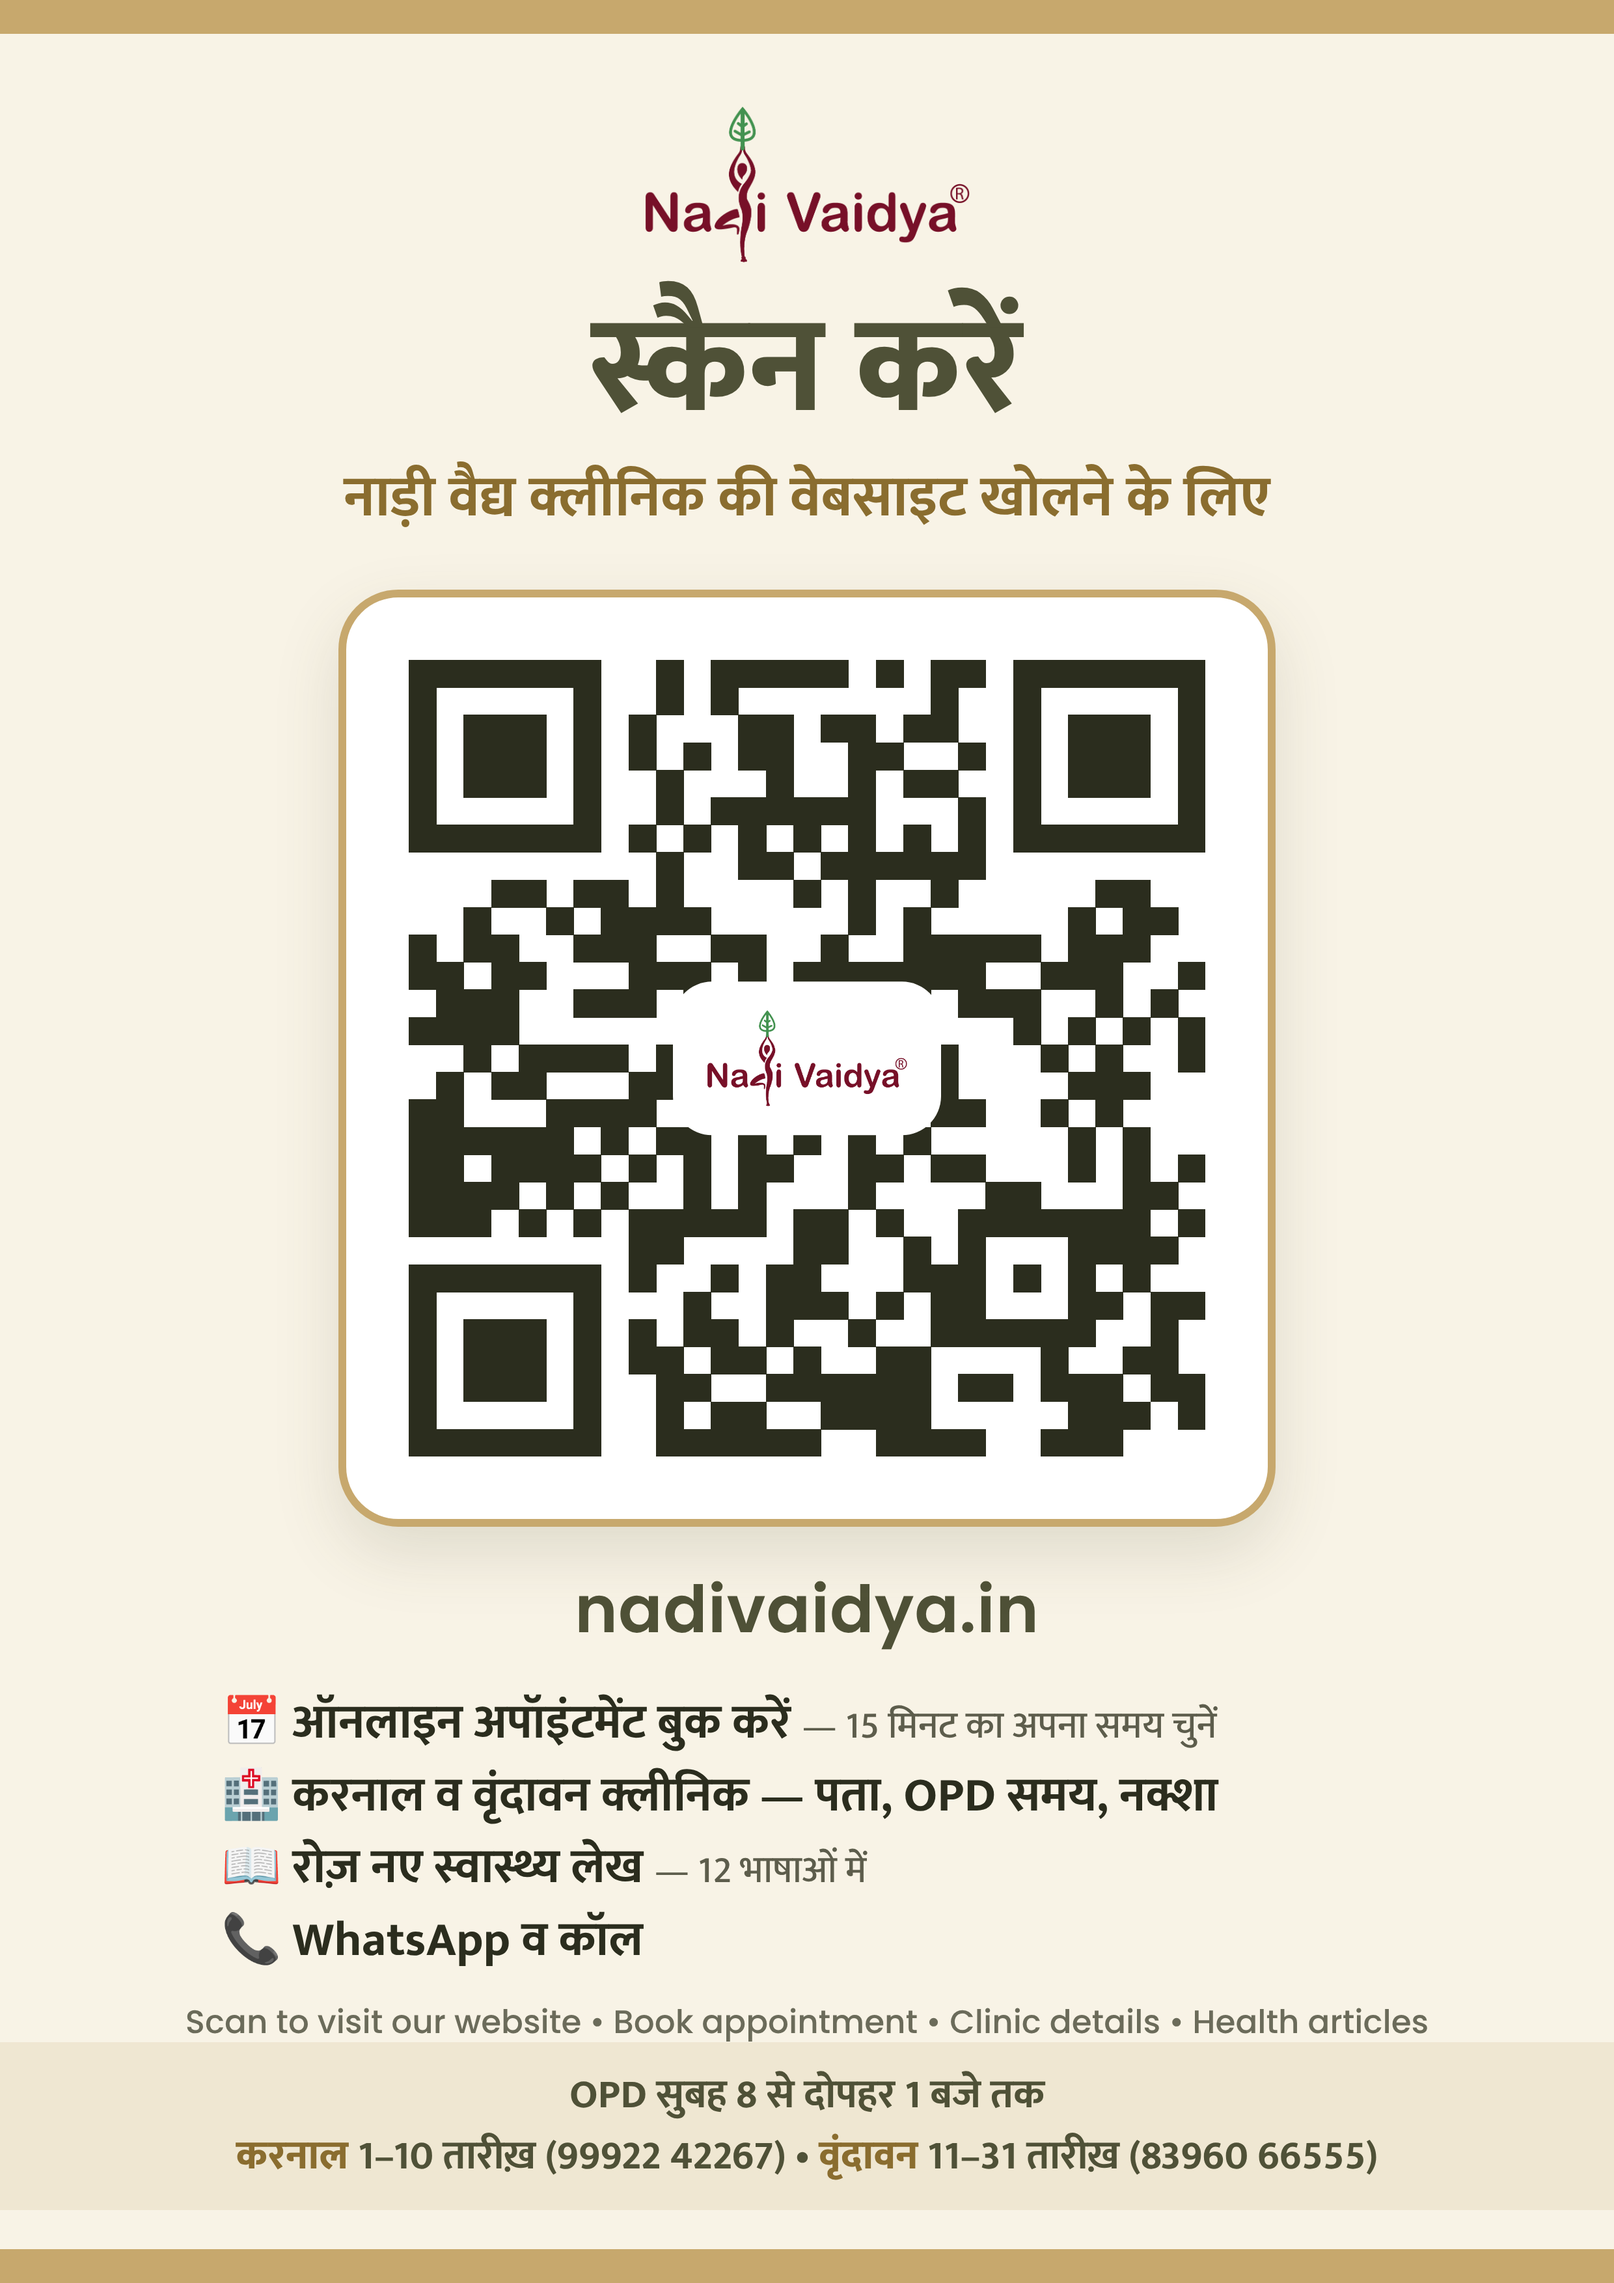
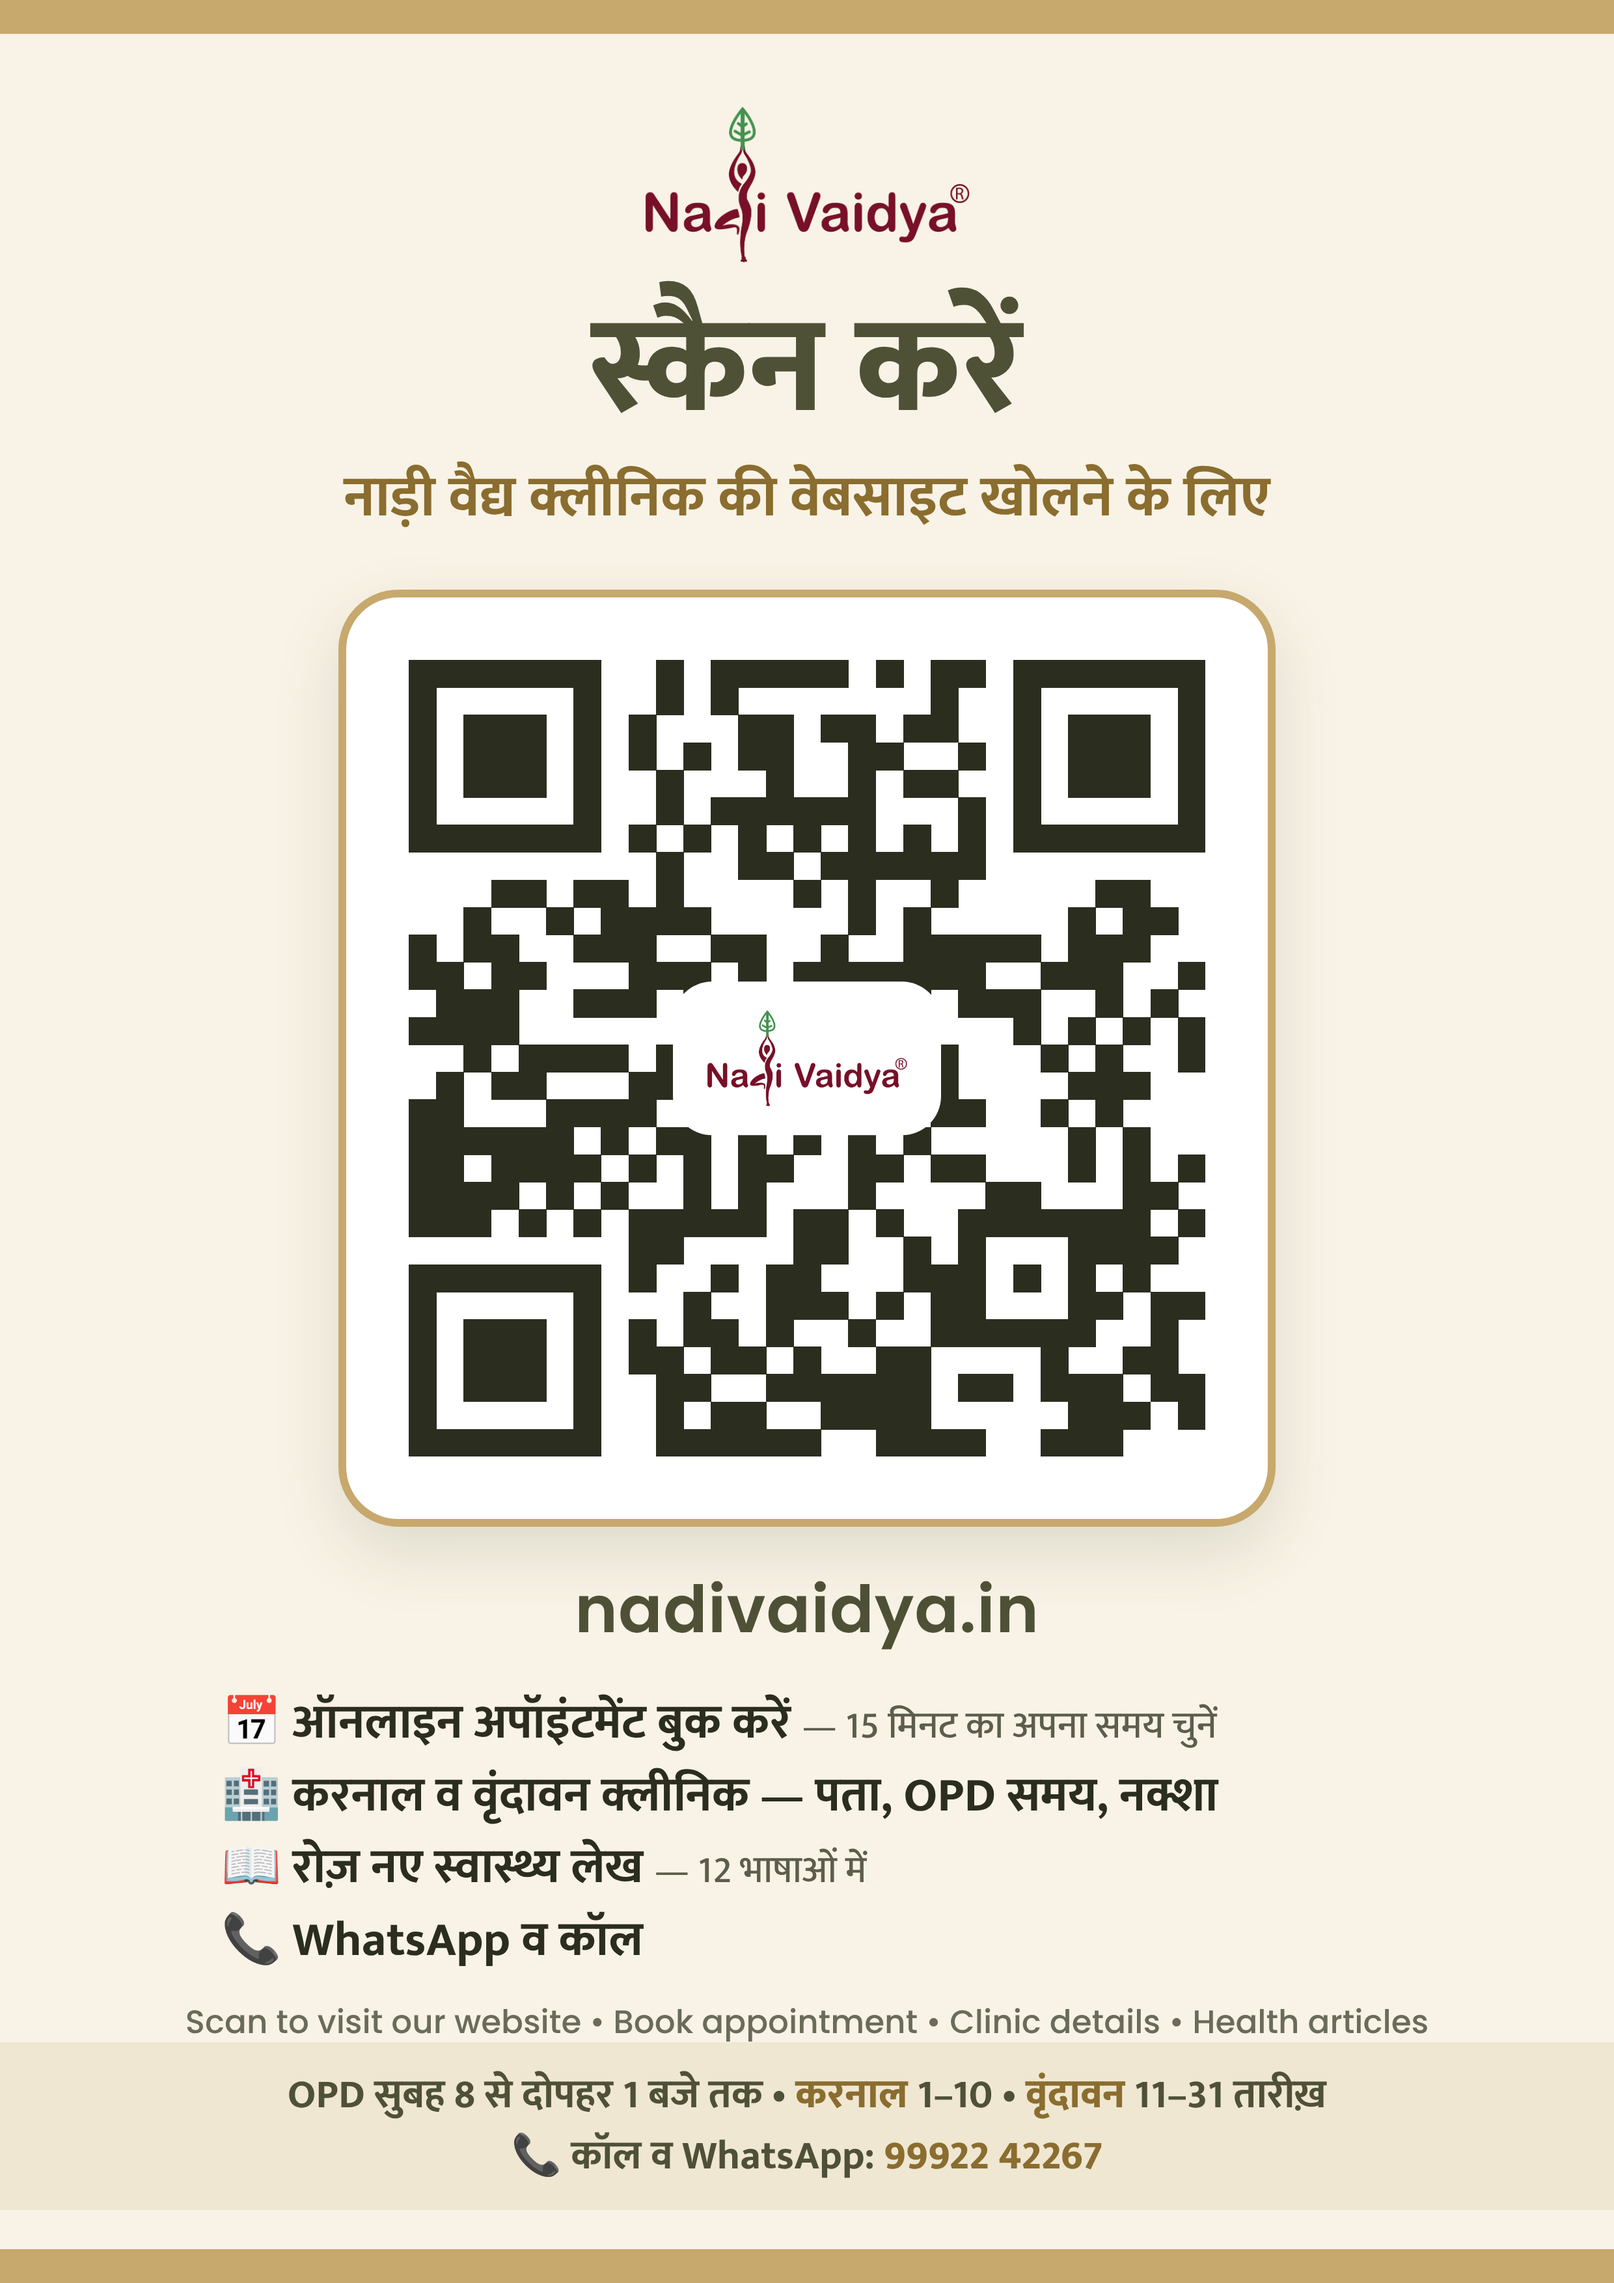
Both clinics use one number for call + WhatsApp: 99922 42267
Vrindavan clinic phone, WhatsApp links, booking API clinic phone, SEO text
and the QR poster now use 99922 42267 (owner's request).

Claude-Session: https://claude.ai/code/session_01BLAFPTXhjRoQfXaUvU6rvF

Changed region(s): [[0.1552, 0.9011, 0.8383, 0.9632]]

diff --git a/src/data/clinics.js b/src/data/clinics.js
@@ -61,7 +61,7 @@ export const clinics = [
     locality: "Vrindavan",
     region: "Uttar Pradesh",
     postalCode: "281121",
-    phone: "83960 66555",
+    phone: "99922 42267", // मालिक: दोनों क्लीनिक का एक ही नंबर (कॉल + WhatsApp)
     opdDays: "11th to month-end (incl. 31st)",
     opdDaysHi: "हर महीने 11 तारीख़ से महीने के अंत (31 तारीख़) तक",
     // नाम से खोजने पर Google अपनी Business listing (Vrindavan Swasthya Seva Kendra) का pin दिखाता है

diff --git a/src/App.jsx b/src/App.jsx
@@ -96,7 +96,7 @@ const PAGE_SEO = {
   "/vrindavan-clinic": {
     title: "Nadi Vaidya Clinic Vrindavan | Swasthya Seva Kendra",
     description:
-      "Vrindavan Swasthya Seva Kendra, Parikrama Marg, Vrindavan — Nadi Pariksha and Ayurveda consultation. OPD 8 AM–1 PM; Nadi Vaidya OPD 11th to month-end. Call 83960 66555.",
+      "Vrindavan Swasthya Seva Kendra, Parikrama Marg, Vrindavan — Nadi Pariksha and Ayurveda consultation. OPD 8 AM–1 PM; Nadi Vaidya OPD 11th to month-end. Call 99922 42267.",
   },
 
     "/appointment": {

diff --git a/api/appointments/_common.php b/api/appointments/_common.php
@@ -107,7 +107,7 @@ $APPT_CLINICS = [
     ],
     "vrindavan" => [
         "name" => "Vrindavan Swasthya Seva Kendra, Vrindavan",
-        "phone" => "8396066555",
+        "phone" => "9992242267",
     ],
 ];
 

diff --git a/CLAUDE.md b/CLAUDE.md
@@ -25,7 +25,7 @@ Handoff notes for Claude. Owner talks in Hindi/Hinglish; reply in simple Hindi.
 - OPD 8:00 AM–1:00 PM, both clinics. Karnal 1st–10th, Vrindavan 11th–month end (incl. 31st). All three doctors at both clinics. All therapies at both clinics.
 - Booking: 15-min slots, 1 patient per slot, no closed days; WhatsApp + call also offered.
 - Karnal: AyurVaidya Wellness, 4 R.K. Puram, Gali No. 10, Kunjpura Road, Karnal 132001 — 99922 42267 (map pin https://maps.app.goo.gl/z2YwcKdLS9Q5JnwS9).
-- Vrindavan: Vrindavan Swasthya Seva Kendra, Shop No. 5, Radha Rani Palace, near Shri Radha Teela, Parikrama Marg, Vrindavan, Mathura 281121 — 83960 66555 (map pin https://maps.app.goo.gl/CTKHXGrxZEyFbHdG9).
+- Vrindavan: Vrindavan Swasthya Seva Kendra, Shop No. 5, Radha Rani Palace, near Shri Radha Teela, Parikrama Marg, Vrindavan, Mathura 281121 — 99922 42267 (same number as Karnal for call + WhatsApp, owner's rule) (map pin https://maps.app.goo.gl/CTKHXGrxZEyFbHdG9).
 - Doctors: Dr. Ajit Singh Yadav (BAMS), Dr. Saloni Yadav Vashist (BAMS, MD (DN)), Dr. Mohit Vashist (BAMS, MD (AM)). English spelling "Vashist"; Hindi "वशिष्ठ".
 - Line under doctors/hero: "बॉलीवुड, शीर्ष व्यापारिक घरानों एवं राजपरिवारों के परामर्शदाता".
 
